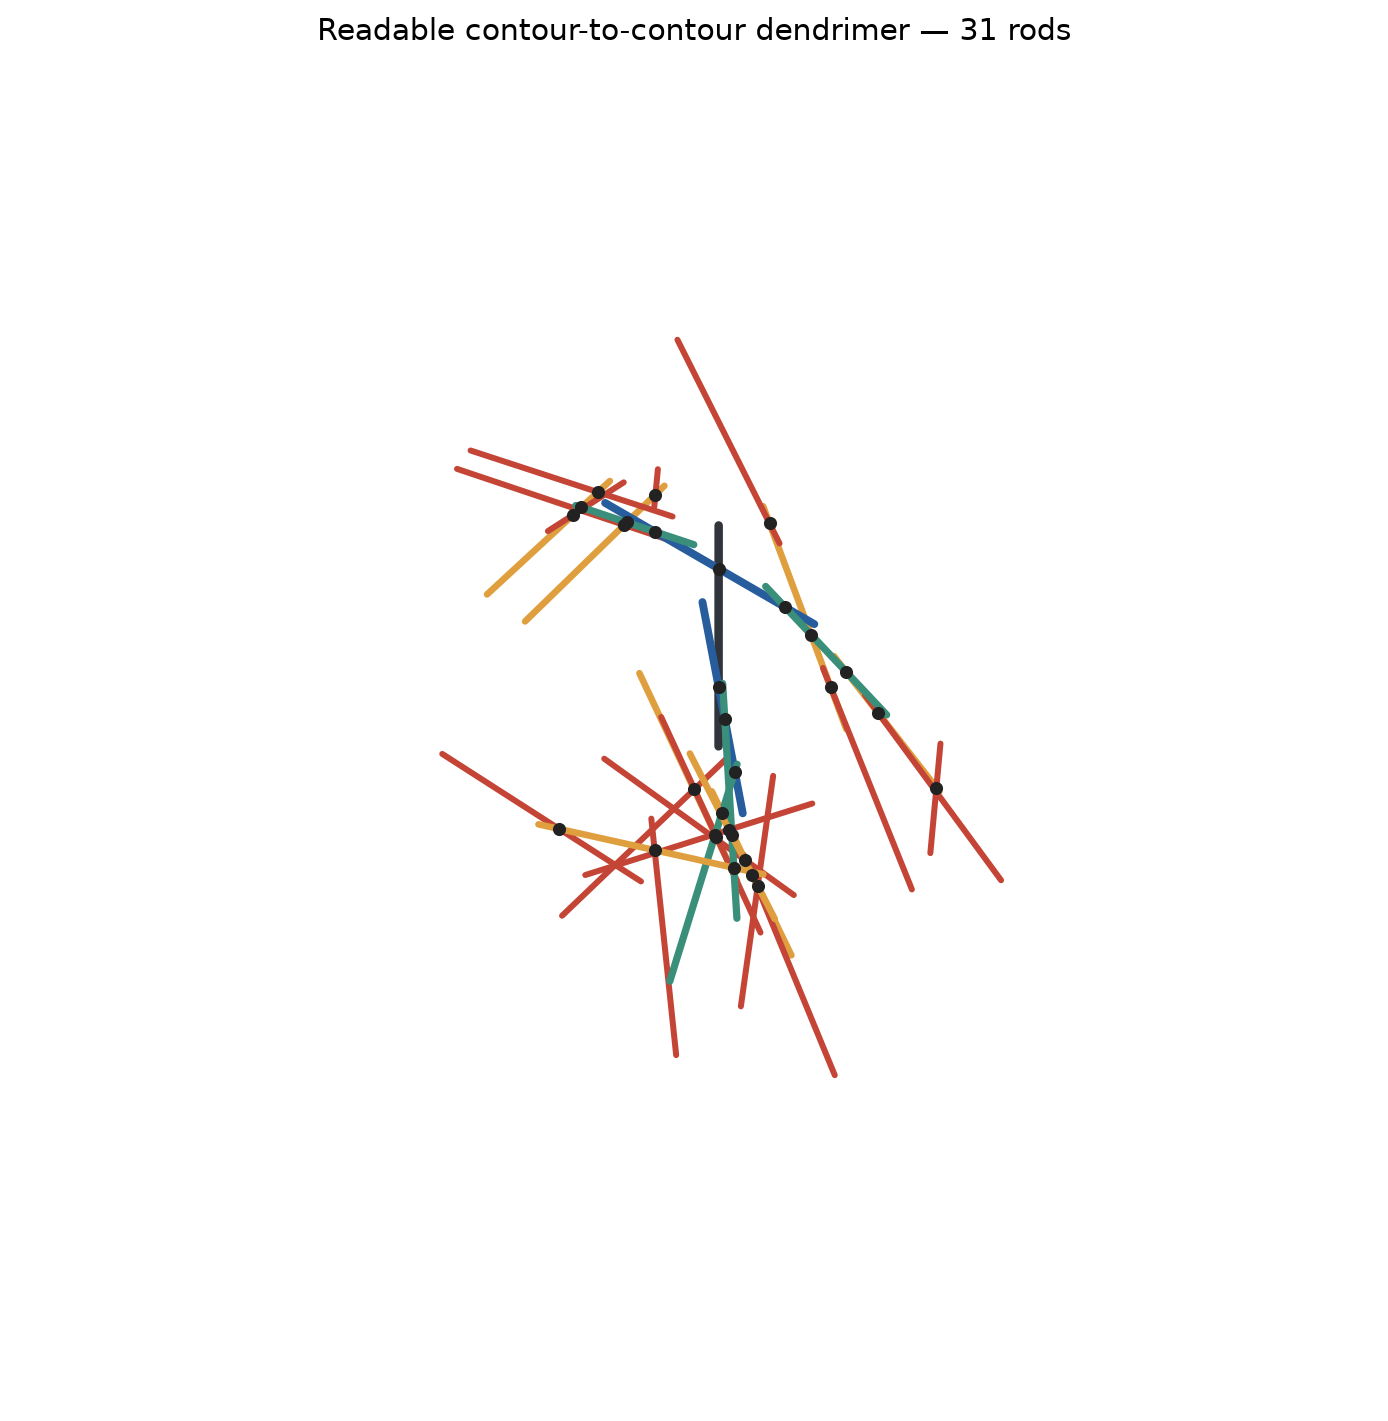
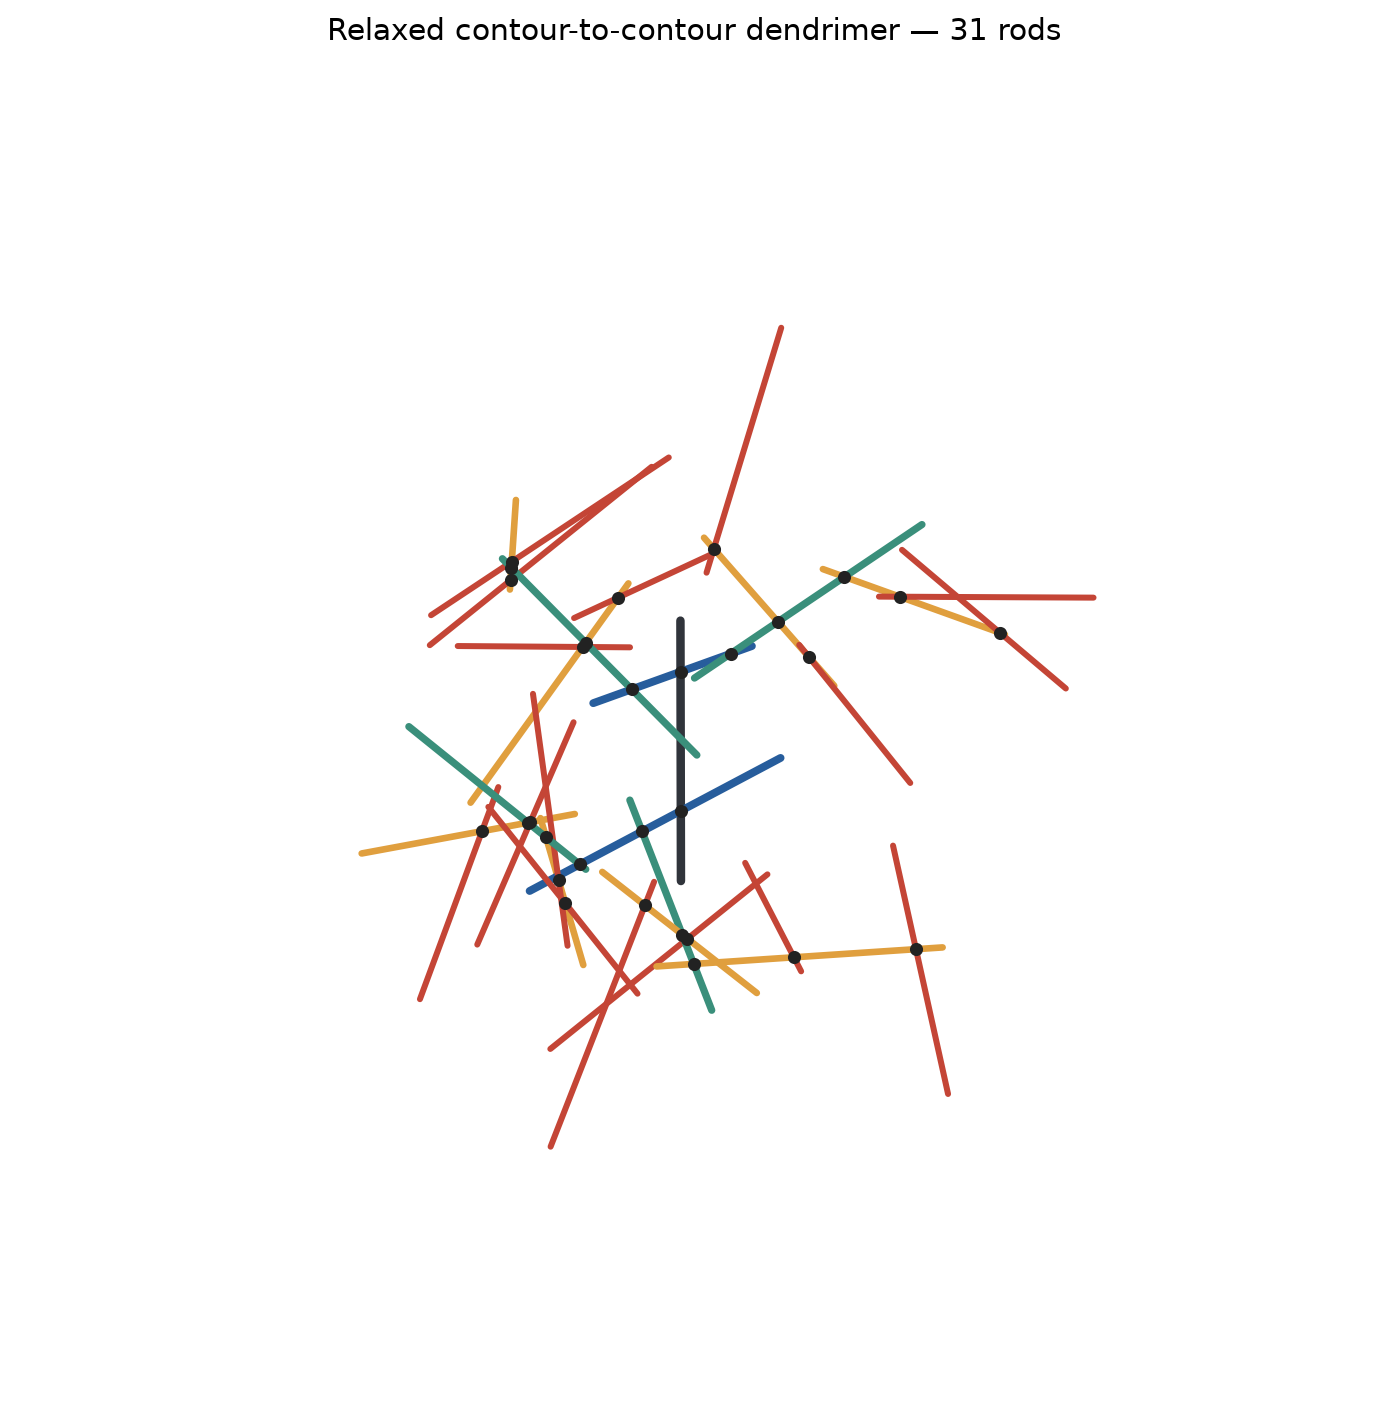
Relax readable layouts with rigid subtree rotations

diff --git a/seb/USDExport.cpp b/seb/USDExport.cpp
@@ -61,6 +61,15 @@ Vec3 rotate(const Quaternion& q, const Vec3& value) {
     return value + cross(u, value) * (2.0*q.w) + cross(u, cross(u, value)) * 2.0;
 }
 
+Quaternion multiply(const Quaternion& first, const Quaternion& second) {
+    return {
+        first.w*second.w-first.x*second.x-first.y*second.y-first.z*second.z,
+        first.w*second.x+first.x*second.w+first.y*second.z-first.z*second.y,
+        first.w*second.y-first.x*second.z+first.y*second.w+first.z*second.x,
+        first.w*second.z+first.x*second.y-first.y*second.x+first.z*second.w
+    };
+}
+
 struct Pose {
     Quaternion rotation;
     Vec3 translation;
@@ -93,6 +102,12 @@ struct LinkEndpoint {
 struct SceneLink {
     LinkEndpoint first;
     LinkEndpoint second;
+    std::string key;
+};
+
+struct RootedLink {
+    LinkEndpoint parent;
+    LinkEndpoint child;
     std::string key;
 };
 
@@ -332,6 +347,47 @@ GeometryProxy transformProxy(const GeometryProxy& local, const Pose& pose) {
     return world;
 }
 
+GeometryProxy maskJointNeighborhood(const GeometryProxy& proxy,
+                                    const Vec3& joint,
+                                    double radius) {
+    if (radius <= 0.0) return proxy;
+    GeometryProxy masked;
+    masked.centroid=proxy.centroid;
+    masked.radius=proxy.radius;
+    const double radiusSquared=radius*radius;
+    for (const Vec3& point : proxy.points) {
+        if (dot(point-joint,point-joint)>radiusSquared) masked.points.push_back(point);
+    }
+    for (const ProxySegment& segment : proxy.segments) {
+        const Vec3 direction=segment.second-segment.first;
+        const Vec3 offset=segment.first-joint;
+        const double a=dot(direction,direction);
+        if (a<=1e-15) continue;
+        const double b=2.0*dot(offset,direction);
+        const double c=dot(offset,offset)-radiusSquared;
+        std::vector<double> cuts{0.0,1.0};
+        const double discriminant=b*b-4.0*a*c;
+        if (discriminant>0.0) {
+            const double root=std::sqrt(discriminant);
+            const double first=(-b-root)/(2.0*a);
+            const double second=(-b+root)/(2.0*a);
+            if (first>0.0 && first<1.0) cuts.push_back(first);
+            if (second>0.0 && second<1.0) cuts.push_back(second);
+        }
+        std::sort(cuts.begin(),cuts.end());
+        for (std::size_t index=0; index+1<cuts.size(); ++index) {
+            const double lower=cuts[index], upper=cuts[index+1];
+            const Vec3 midpoint=segment.first+direction*((lower+upper)*0.5);
+            if (dot(midpoint-joint,midpoint-joint)<=radiusSquared) continue;
+            masked.segments.push_back({
+                segment.first+direction*lower,
+                segment.first+direction*upper
+            });
+        }
+    }
+    return masked;
+}
+
 double proxyDistanceSquared(const GeometryProxy& first, const GeometryProxy& second) {
     double result=std::numeric_limits<double>::infinity();
     for (const ProxySegment& a : first.segments) {
@@ -341,6 +397,15 @@ double proxyDistanceSquared(const GeometryProxy& first, const GeometryProxy& sec
         for (const Vec3& b : second.points) result=std::min(result,dot(a-b,a-b));
     }
     return result;
+}
+
+double linkedProxyDistanceSquared(const GeometryProxy& first,
+                                  const GeometryProxy& second,
+                                  const Vec3& joint,
+                                  double maskRadius) {
+    return proxyDistanceSquared(
+        maskJointNeighborhood(first,joint,maskRadius),
+        maskJointNeighborhood(second,joint,maskRadius));
 }
 
 double readableScore(const GeometryProxy& candidate,
@@ -359,8 +424,11 @@ double readableScore(const GeometryProxy& candidate,
             placedCentroid=placedCentroid+item.second.centroid;
             ++centroidCount;
         }
-        if (item.first == parent || item.second.points.empty() || candidate.points.empty()) continue;
-        const double distanceSquared=proxyDistanceSquared(candidate,item.second);
+        if (item.second.points.empty() || candidate.points.empty()) continue;
+        const double maskRadius=std::max(minimumClearance,0.02*scale);
+        const double distanceSquared=item.first == parent
+            ? linkedProxyDistanceSquared(candidate,item.second,joint,maskRadius)
+            : proxyDistanceSquared(candidate,item.second);
         if (!std::isfinite(distanceSquared)) continue;
         const double distance=std::sqrt(std::max(0.0,distanceSquared));
         if (distance < minimumClearance) {
@@ -388,6 +456,61 @@ double readableScore(const GeometryProxy& candidate,
         spread=length(candidate.centroid-placedCentroid)/scale;
     }
     return collisionPenalty*1e6+proximityPenalty-2.0*outward-0.1*spread;
+}
+
+double pairLayoutScore(const GeometryProxy& first,
+                       const GeometryProxy& second,
+                       double minimumClearance,
+                       const Vec3* joint) {
+    if (first.points.empty() || second.points.empty()) return 0.0;
+    const double scale=std::max(std::max(first.radius,second.radius),1e-9);
+    const double lowerBound=std::max(
+        0.0,length(first.centroid-second.centroid)-first.radius-second.radius);
+    double distanceSquared;
+    if (!joint && lowerBound>std::max(minimumClearance,2.0*scale)) {
+        distanceSquared=lowerBound*lowerBound;
+    } else if (joint) {
+        const double maskRadius=std::max(minimumClearance,0.02*scale);
+        distanceSquared=linkedProxyDistanceSquared(first,second,*joint,maskRadius);
+    } else {
+        distanceSquared=proxyDistanceSquared(first,second);
+    }
+    if (!std::isfinite(distanceSquared)) return 0.0;
+    const double distance=std::sqrt(std::max(0.0,distanceSquared));
+    double score=1.0/(0.05+distanceSquared/(scale*scale));
+    if (distance<minimumClearance) {
+        const double deficit=(minimumClearance-distance)/scale;
+        score+=1e6*deficit*deficit;
+    }
+    return score;
+}
+
+double partitionLayoutScore(const std::set<std::string>& subtree,
+                            const std::map<std::string,GeometryProxy>& candidateProxies,
+                            const std::map<std::string,GeometryProxy>& currentProxies,
+                            const std::string& parent,
+                            const std::string& child,
+                            const Vec3& joint,
+                            double minimumClearance) {
+    double score=0.0;
+    for (const std::string& inside : subtree) {
+        const auto first=candidateProxies.find(inside);
+        if (first == candidateProxies.end()) continue;
+        for (const auto& outside : currentProxies) {
+            if (subtree.count(outside.first)) continue;
+            const Vec3* sharedJoint=inside==child && outside.first==parent ? &joint : nullptr;
+            score+=pairLayoutScore(
+                first->second,outside.second,minimumClearance,sharedJoint);
+        }
+    }
+    return score;
+}
+
+Pose rotatePoseAround(const Pose& pose, const Quaternion& rotation, const Vec3& pivot) {
+    Pose result=pose;
+    result.rotation=multiply(rotation,pose.rotation);
+    result.translation=pivot+rotate(rotation,pose.translation-pivot);
+    return result;
 }
 
 } // namespace
@@ -611,6 +734,7 @@ void World::ExportUSD(const std::string& structure,
         sceneLinks.push_back(sceneLink);
     }
     std::sort(sceneLinks.begin(),sceneLinks.end(),[](const SceneLink& a,const SceneLink& b){return a.key<b.key;});
+    std::vector<RootedLink> rootedLinks;
     std::size_t resolvedCount=1;
     while (resolvedCount < poses.size()) {
         bool progress=false;
@@ -654,6 +778,7 @@ void World::ExportUSD(const std::string& structure,
             if (childProxy != localProxies.end()) {
                 placedProxies[childEndpoint.instance]=transformProxy(childProxy->second,child);
             }
+            rootedLinks.push_back({parentEndpoint,childEndpoint,link.key});
         }
         if (!progress) {
             for (auto& pose : poses) if (!pose.second.resolved) {
@@ -662,6 +787,65 @@ void World::ExportUSD(const std::string& structure,
                 if (proxy != localProxies.end()) placedProxies[pose.first]=transformProxy(proxy->second,pose.second);
                 ++resolvedCount;
                 break;
+            }
+        }
+    }
+
+    if (options.layoutMode == USDLayoutMode::Readable && options.relaxationSweeps>0) {
+        std::map<std::string,std::vector<std::string>> children;
+        for (const RootedLink& link : rootedLinks) {
+            children[link.parent.instance].push_back(link.child.instance);
+        }
+        for (auto& item : children) std::sort(item.second.begin(),item.second.end());
+
+        std::vector<std::set<std::string>> subtrees;
+        for (const RootedLink& link : rootedLinks) {
+            std::set<std::string> subtree;
+            std::function<void(const std::string&)> collect=[&](const std::string& name) {
+                if (!subtree.insert(name).second) return;
+                const auto found=children.find(name);
+                if (found != children.end()) for (const std::string& child : found->second) collect(child);
+            };
+            collect(link.child.instance);
+            subtrees.push_back(std::move(subtree));
+        }
+
+        for (std::size_t sweep=0; sweep<options.relaxationSweeps; ++sweep) {
+            for (std::size_t order=0; order<rootedLinks.size(); ++order) {
+                const std::size_t index=sweep%2==0 ? order : rootedLinks.size()-1-order;
+                const RootedLink& link=rootedLinks[index];
+                const std::set<std::string>& subtree=subtrees[index];
+                const Vec3 parentLocal=resolveReference(link.parent);
+                const Pose& parentPose=poses[link.parent.instance];
+                const Vec3 joint=parentPose.translation+rotate(parentPose.rotation,parentLocal);
+
+                Quaternion bestRotation;
+                double bestScore=std::numeric_limits<double>::infinity();
+                for (std::size_t trial=0; trial<options.orientationTrials; ++trial) {
+                    const Quaternion candidateRotation=trial==0 ? Quaternion() : uniformRotation(
+                        options.seed,link.key+"/relaxation/"+std::to_string(sweep)+"/"+std::to_string(trial));
+                    std::map<std::string,GeometryProxy> candidateProxies;
+                    for (const std::string& name : subtree) {
+                        const auto local=localProxies.find(name);
+                        if (local == localProxies.end()) continue;
+                        const Pose candidatePose=rotatePoseAround(poses[name],candidateRotation,joint);
+                        candidateProxies.emplace(name,transformProxy(local->second,candidatePose));
+                    }
+                    const double score=partitionLayoutScore(
+                        subtree,candidateProxies,placedProxies,
+                        link.parent.instance,link.child.instance,joint,options.minimumClearance);
+                    if (score<bestScore) {
+                        bestScore=score;
+                        bestRotation=candidateRotation;
+                    }
+                }
+                for (const std::string& name : subtree) {
+                    poses[name]=rotatePoseAround(poses[name],bestRotation,joint);
+                    const auto local=localProxies.find(name);
+                    if (local != localProxies.end()) {
+                        placedProxies[name]=transformProxy(local->second,poses[name]);
+                    }
+                }
             }
         }
     }
@@ -675,6 +859,7 @@ void World::ExportUSD(const std::string& structure,
         output << "    custom string pyseb:orientationSemantics = \"readability_optimized_free_rotation\"\n";
         output << "    custom string pyseb:overlapPolicy = \"best_effort_minimized\"\n";
         output << "    custom uint64 pyseb:orientationTrials = " << options.orientationTrials << "\n";
+        output << "    custom uint64 pyseb:relaxationSweeps = " << options.relaxationSweeps << "\n";
         output << "    custom double pyseb:minimumClearance = " << number(options.minimumClearance) << "\n";
     } else {
         output << "    custom string pyseb:layoutMode = \"random\"\n";

diff --git a/pyseb/tests/python/test_usd_export.py b/pyseb/tests/python/test_usd_export.py
@@ -211,6 +211,7 @@ class TestUSDExport(unittest.TestCase):
             world.Add(graph, "dendrimer")
 
             random_output = directory / "random.usda"
+            greedy_output = directory / "greedy.usda"
             readable_output = directory / "readable.usda"
             repeated_output = directory / "repeated.usda"
             options = pyseb.USDExportOptions(pyseb.LengthUnit.Angstrom)
@@ -220,29 +221,44 @@ class TestUSDExport(unittest.TestCase):
             options.layout_mode = pyseb.LayoutMode.Readable
             options.orientation_trials = 64
             options.minimum_clearance = 0.08
+            options.relaxation_sweeps = 0
+            world.export_usd("dendrimer", str(greedy_output), {"L_rod": 1.0}, options)
+            options.relaxation_sweeps = 4
             world.export_usd("dendrimer", str(readable_output), {"L_rod": 1.0}, options)
             world.export_usd("dendrimer", str(repeated_output), {"L_rod": 1.0}, options)
 
             random_document = random_output.read_text(encoding="utf-8")
+            greedy_document = greedy_output.read_text(encoding="utf-8")
             readable_document = readable_output.read_text(encoding="utf-8")
             self.assertEqual(readable_output.read_bytes(), repeated_output.read_bytes())
             self.assertIn('pyseb:layoutMode = "readable"', readable_document)
             self.assertIn('pyseb:overlapPolicy = "best_effort_minimized"', readable_document)
             self.assertGreater(
                 _minimum_nonlinked_rod_distance(readable_document, 15),
+                _minimum_nonlinked_rod_distance(greedy_document, 15),
+            )
+            self.assertGreater(
+                _minimum_nonlinked_rod_distance(greedy_document, 15),
                 _minimum_nonlinked_rod_distance(random_document, 15),
             )
 
-            parent_world = _world_point(
-                _pose(readable_document, "rod1"),
-                _reference(readable_document, "rod1", "contour_g1_branch1"),
+            relationships = re.findall(
+                r'rel pyseb:link_\d+ = \[</dendrimer/(rod\d+)/ref_([^>]+)>, '
+                r'</dendrimer/(rod\d+)/ref_([^>]+)>\]',
+                readable_document,
             )
-            child_world = _world_point(
-                _pose(readable_document, "rod2"),
-                _reference(readable_document, "rod2", "contour_attachment"),
-            )
-            for actual, expected in zip(child_world, parent_world):
-                self.assertAlmostEqual(actual, expected, places=12)
+            self.assertEqual(len(relationships), 14)
+            for first, first_reference, second, second_reference in relationships:
+                first_world = _world_point(
+                    _pose(readable_document, first),
+                    _reference(readable_document, first, first_reference),
+                )
+                second_world = _world_point(
+                    _pose(readable_document, second),
+                    _reference(readable_document, second, second_reference),
+                )
+                for actual, expected in zip(first_world, second_world):
+                    self.assertAlmostEqual(actual, expected, places=12)
 
     def test_readable_layout_options_are_validated(self):
         with tempfile.TemporaryDirectory() as directory:

diff --git a/pyseb/bindings/bindings.cpp b/pyseb/bindings/bindings.cpp
@@ -72,6 +72,7 @@ PYBIND11_MODULE(_pyseb, m) {
         .def_readwrite("seed", &USDExportOptions::seed)
         .def_readwrite("layout_mode", &USDExportOptions::layoutMode)
         .def_readwrite("orientation_trials", &USDExportOptions::orientationTrials)
+        .def_readwrite("relaxation_sweeps", &USDExportOptions::relaxationSweeps)
         .def_readwrite("minimum_clearance", &USDExportOptions::minimumClearance)
         .def_readwrite("curve_samples", &USDExportOptions::curveSamples)
         .def_readwrite("surface_samples", &USDExportOptions::surfaceSamples)

diff --git a/seb/USDExport.hpp b/seb/USDExport.hpp
@@ -17,6 +17,7 @@ struct USDExportOptions {
     unsigned long long seed = 0;
     USDLayoutMode layoutMode = USDLayoutMode::Random;
     std::size_t orientationTrials = 64;
+    std::size_t relaxationSweeps = 4;
     double minimumClearance = 0.0;
     std::size_t curveSamples = 96;
     std::size_t surfaceSamples = 48;

diff --git a/pyseb/examples/python/usd_contour_linked_rod_dendrimer.py b/pyseb/examples/python/usd_contour_linked_rod_dendrimer.py
@@ -34,6 +34,7 @@ options = pyseb.USDExportOptions(pyseb.LengthUnit.Angstrom)
 options.seed = 42
 options.layout_mode = pyseb.LayoutMode.Readable
 options.orientation_trials = 64
+options.relaxation_sweeps = 4
 options.minimum_clearance = 0.08
 options.curve_samples = 2
 generation_colors = (

diff --git a/docs/visualization.md b/docs/visualization.md
@@ -18,11 +18,17 @@ calculation.  Changing the seed produces a different realization.
 
 The optional `Readable` layout evaluates several seeded rotations for each
 new child and selects the one with the best clearance from geometry already
-placed.  It always preserves exact reference-point coincidence and never
-rejects an export when overlap cannot be avoided.  Candidate scoring uses
-coarse geometry proxies, so this is deterministic best-effort layout rather
-than a collision-free guarantee.  Its USD metadata identifies the orientations
-as optimized for readability rather than uniformly sampled.
+placed.  It then performs deterministic relaxation sweeps that rotate complete
+descendant subtrees around their external junctions.  These rigid subtree moves
+preserve the external junction and every internal link exactly.  Directly
+connected geometry participates in collision scoring after masking a small
+neighborhood around its intended contact point.
+
+Readable layout never rejects an export when overlap cannot be avoided.
+Candidate scoring uses coarse geometry proxies, so this remains deterministic
+best-effort layout rather than a collision-free guarantee.  Its USD metadata
+identifies the orientations as optimized for readability rather than uniformly
+sampled.
 
 The exporter writes a deterministic representative realization as text USDA;
 no OpenUSD runtime is required.  Use `.usda` for explicit text or `.usd` when
@@ -33,6 +39,7 @@ options = pyseb.USDExportOptions(pyseb.LengthUnit.Angstrom)
 options.seed = 42
 options.layout_mode = pyseb.LayoutMode.Readable
 options.orientation_trials = 64
+options.relaxation_sweeps = 4
 options.minimum_clearance = 0.05  # In the selected model length unit.
 world.export_usd("structure", "structure.usda", parameters, options)
 ```
@@ -44,6 +51,7 @@ USDExportOptions options(LengthUnit::Angstrom);
 options.seed = 42;
 options.layoutMode = USDLayoutMode::Readable;
 options.orientationTrials = 64;
+options.relaxationSweeps = 4;
 options.minimumClearance = 0.05;
 world.ExportUSD("structure", "structure.usda", parameters, options);
 ```
